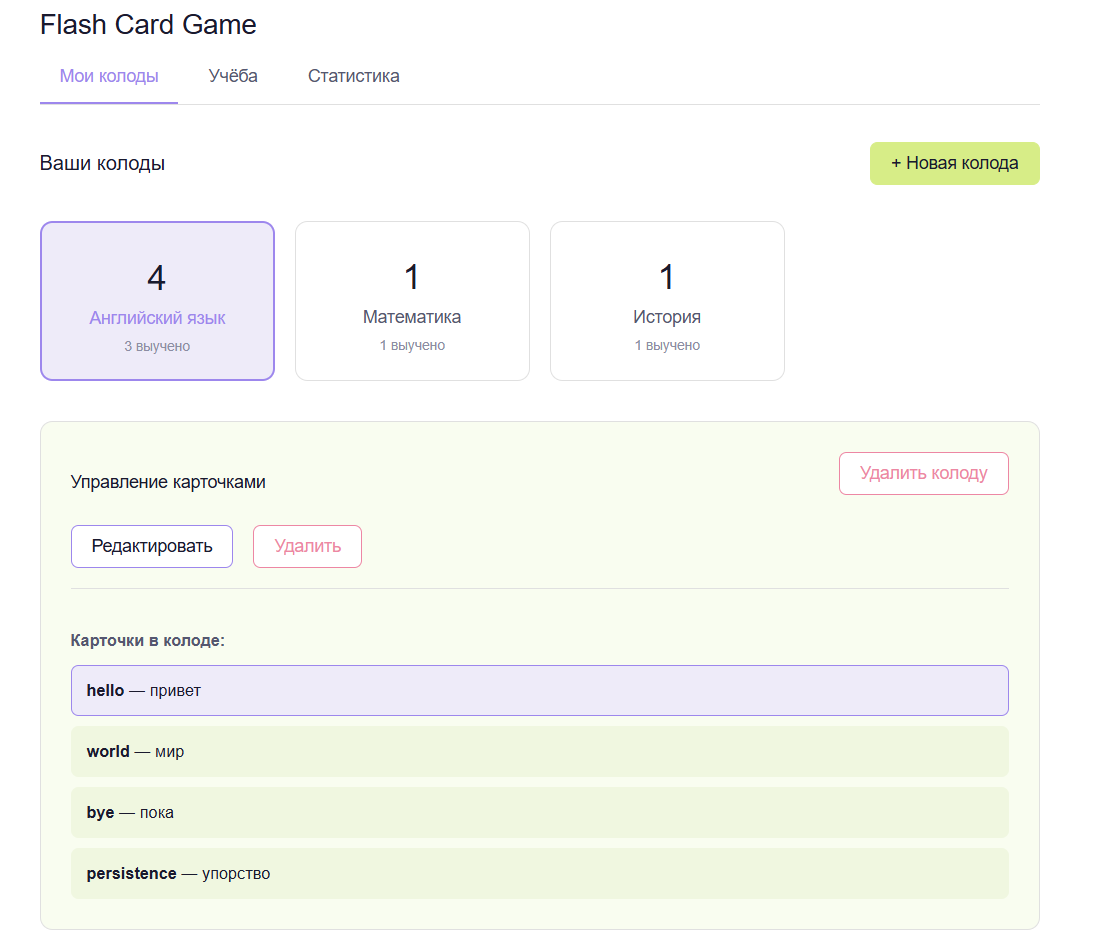
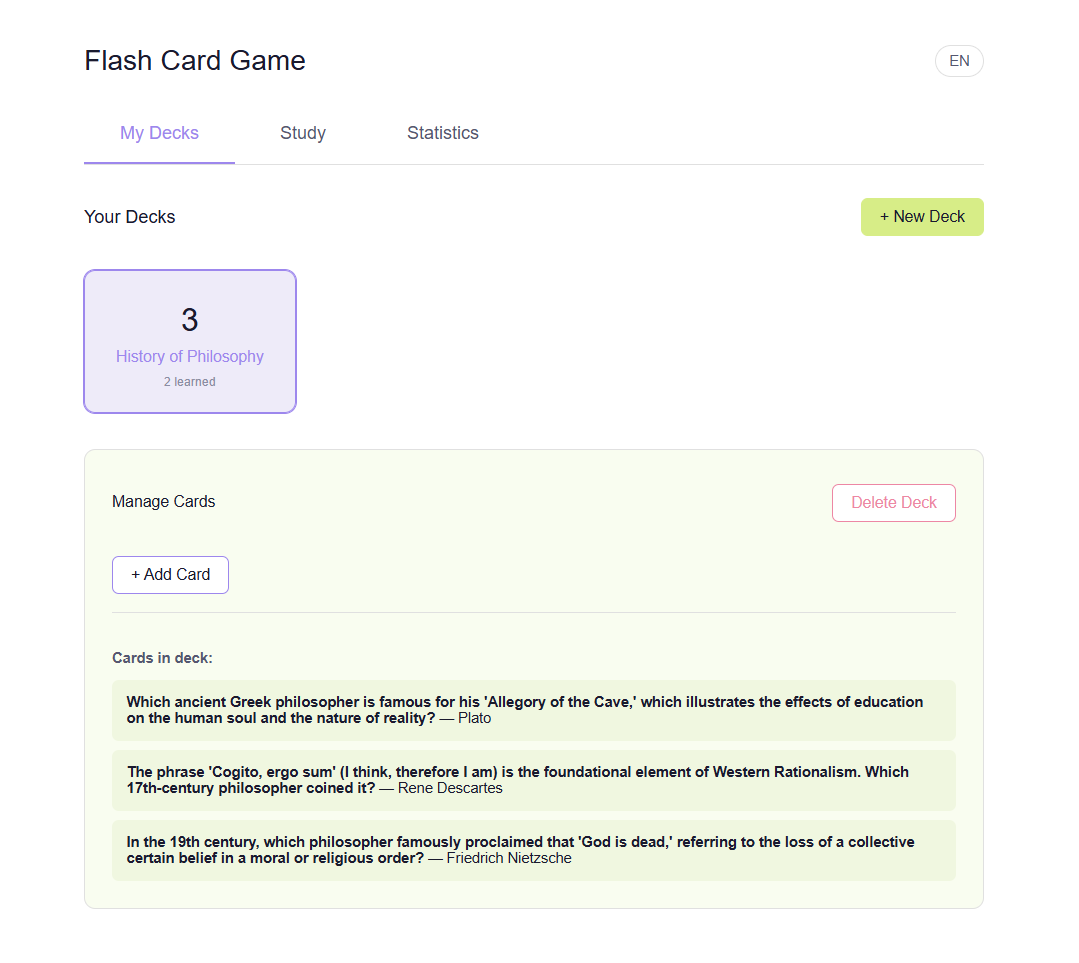
added dark theme

diff --git a/index.css b/index.css
@@ -7,9 +7,10 @@ body {
   background: #ffffff;
   color: #1a1a2e;
   min-width: 400px;
+  overflow-y: scroll;
 }
 
-h1 { font-size: 25px; font-weight: 500; margin: rem; }
+h1 { font-size: 25px; font-weight: 500; margin: 1rem; }
 h2 { font-size: 16px; font-weight: 500; }
 h3 { font-size: 14px; font-weight: 500; margin-bottom: 1rem; }
 h4 { font-size: 13px; color: #555770; margin-bottom: 0.75rem; }
@@ -451,4 +452,74 @@ button:active {
   border-color: #9D87ED;
   color: #9D87ED;
   background: transparent;
+}
+
+/*---------Dark theme---------*/
+body.dark {
+  background: #13132a;
+  color: #e0e0e0;
+}
+
+body.dark .deck-card,
+body.dark .deck-item,
+body.dark .stat-card,
+body.dark .study-header,
+body.dark .panel,
+body.dark .dialog-box {
+  background: #2a2a3e;
+  border-color: #6a6a93;
+}
+
+body.dark .panel-inner,
+body.dark .card-list-item {
+  background: #554b69;
+}
+
+body.dark .flashcard-content,
+body.dark .flashcard-back {
+  background: #2a2a3e;
+}
+
+body.dark input,
+body.dark textarea {
+  background: #2a2a3e;
+  color: #e0e0e0;
+  border-color: #9D87ED;
+}
+
+body.dark button {
+  background: #2a2a3e;
+  color: #e0e0e0;
+}
+
+body.dark .tab-btn {
+  background: transparent;
+}
+
+body.dark .deck-count,
+body.dark .stat-deck-percent {
+  color: #e0e0e0;
+}
+
+body.dark .deck-card {
+  border-color: #6a6a93;
+}
+
+body.dark .deck-card.selected {
+  border-color: #9D87ED;
+  outline-color: #9D87ED;
+}
+
+body.dark .card-text,
+body.dark .study-title {
+  color: #e0e0e0;
+}
+
+/* Adjust header */
+
+.header-controls {
+  display: flex;
+  justify-content: flex-end;
+  gap: 0.5rem;
+  align-items: center;
 }

diff --git a/index.js b/index.js
@@ -384,7 +384,7 @@ function renderStudyDecks() {
       if (!allLearned) {
         const learnBtn = document.createElement('button');
         learnBtn.className = 'btn-primary';
-        learnBtn.textContent = 'Учить';
+        learnBtn.textContent = t('study');
         learnBtn.onclick = () => startStudy(deck.id);
         actions.appendChild(learnBtn);
       } else {
@@ -614,6 +614,21 @@ function renderStats() {
   container.appendChild(deckList);
 }
 
+
+function toggleTheme() {
+  const isDark = document.body.classList.toggle('dark');
+  document.getElementById('theme-btn').textContent = isDark ? 'Light' : 'Dark';
+  localStorage.setItem('theme', isDark ? 'dark' : 'light');
+}
+
+// restore on load
+if (localStorage.getItem('theme') === 'dark') {
+  document.body.classList.add('dark');
+  document.getElementById('theme-btn').textContent = 'Light';
+}
+
+
+
 // ─── Expose to window (required for onclick in HTML with type="module") ───────
 
 window.switchTab = switchTab;
@@ -626,3 +641,4 @@ window.hideAddCardForm = hideAddCardForm;
 window.addCard = addCard;
 window.confirmYes = confirmYes;
 window.confirmNo = confirmNo;
+window.toggleTheme = toggleTheme;

diff --git a/lang.js b/lang.js
@@ -42,6 +42,7 @@ export const translations = {
     edit_card_btn: 'Edit Card',
     delete_card_btn: 'Delete Card',
     enter_question_answer: 'Please enter both question and answer',
+    study: 'Study',
   },
   ru: {
     my_decks: 'Мои колоды',
@@ -86,6 +87,7 @@ export const translations = {
     edit_card_btn: 'Редактировать',
     delete_card_btn: 'Удалить карточку',
     enter_question_answer: 'Пожалуйста, введите и вопрос, и ответ',
+    study: 'Учить',
   },
   es: {
     my_decks: 'Mis mazos',
@@ -130,5 +132,6 @@ export const translations = {
     edit_card_btn: 'Editar tarjeta',
     delete_card_btn: 'Eliminar tarjeta',
     enter_question_answer: 'Por favor, ingresa tanto la pregunta como la respuesta',
+    study: 'Estudiar',
   }
 };

diff --git a/index.html b/index.html
@@ -10,12 +10,19 @@
 
 <div class="container">
 
+
   <div class="header">
     <h1>Flash Card Game</h1>
-    <button class="lang-switcher" onclick="cycleLang()">
-      <span id="lang-label">EN</span>
-    </button>
   </div>
+
+  <div class="header-controls">
+  <button class="lang-switcher" onclick="cycleLang()">
+    <span id="lang-label">EN</span>
+  </button>
+  <button class="lang-switcher" onclick="toggleTheme()" id="theme-btn"></button>
+</div>
+
+
 
   <!-- Tabs -->
   <div class="tabs">
